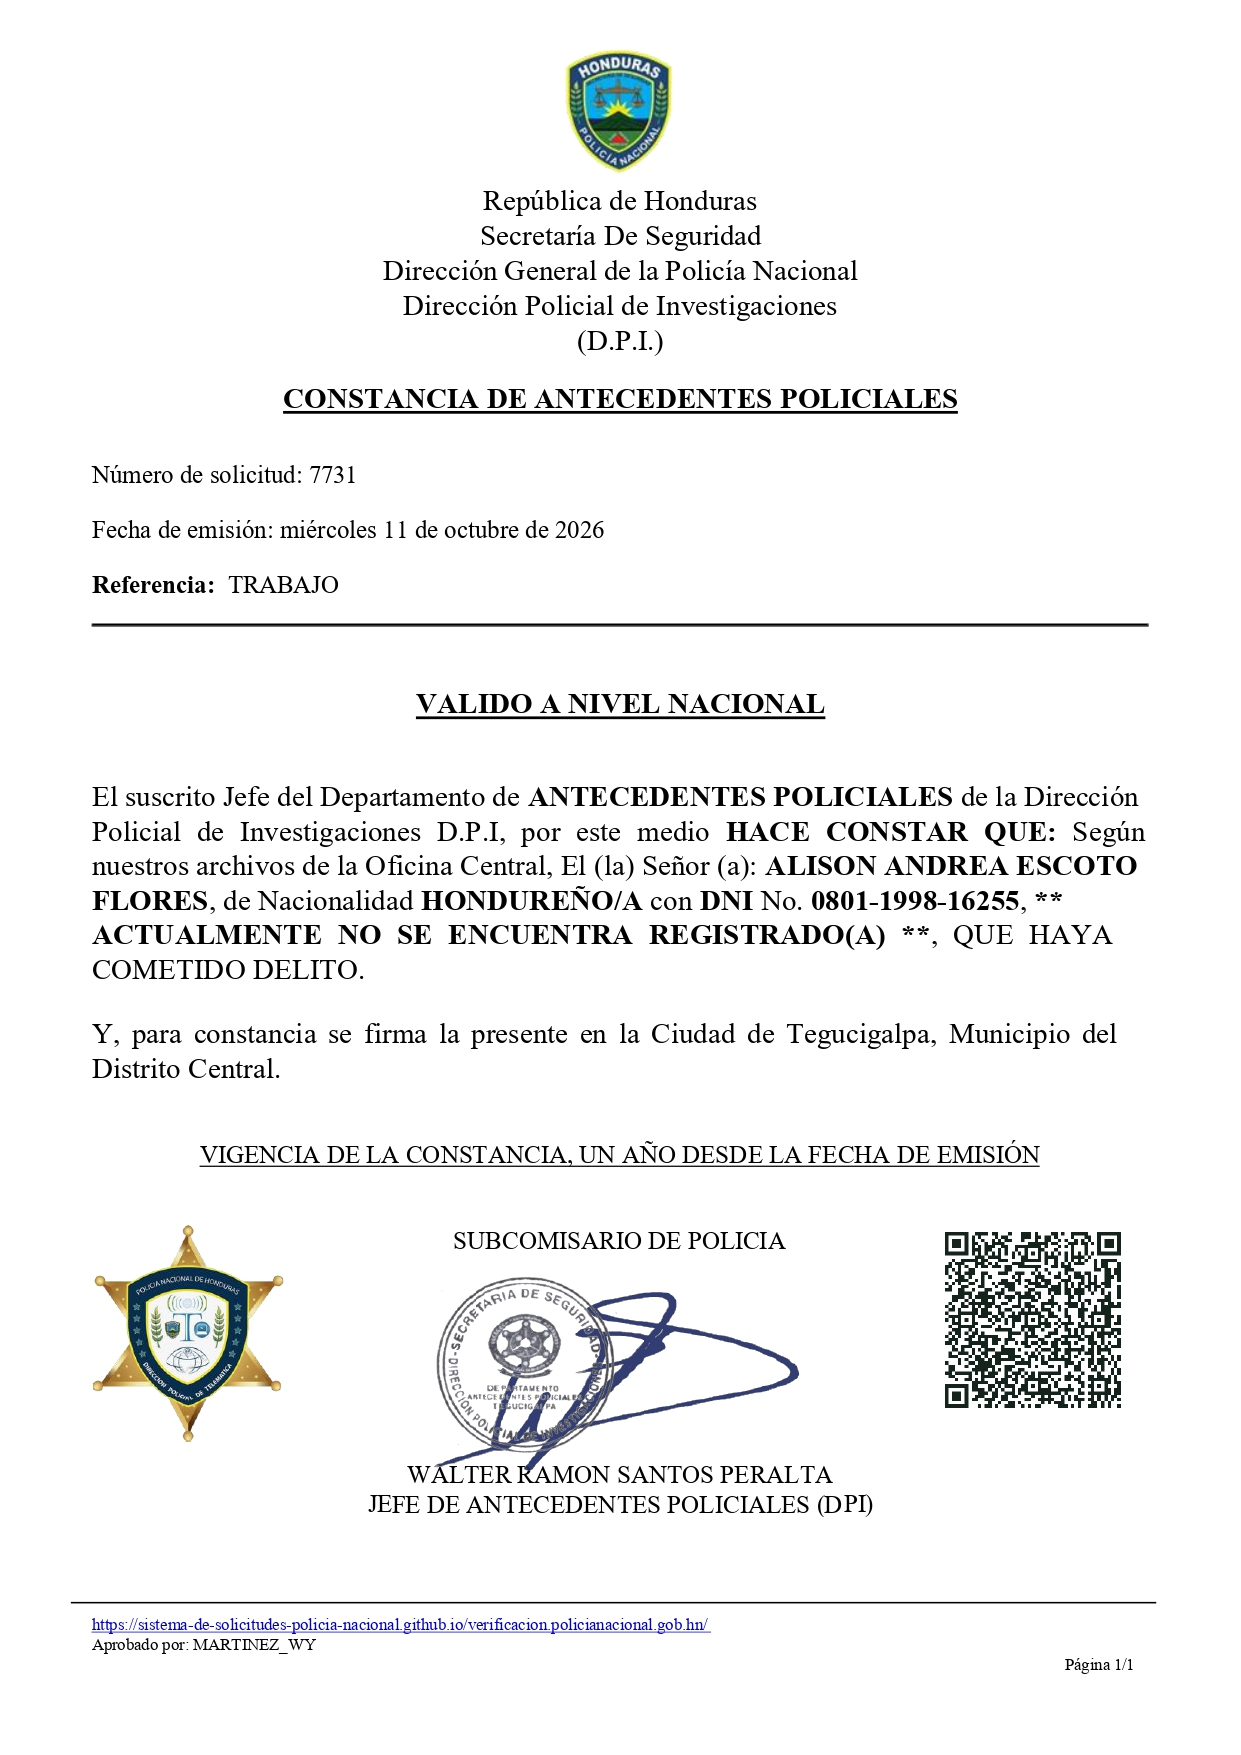
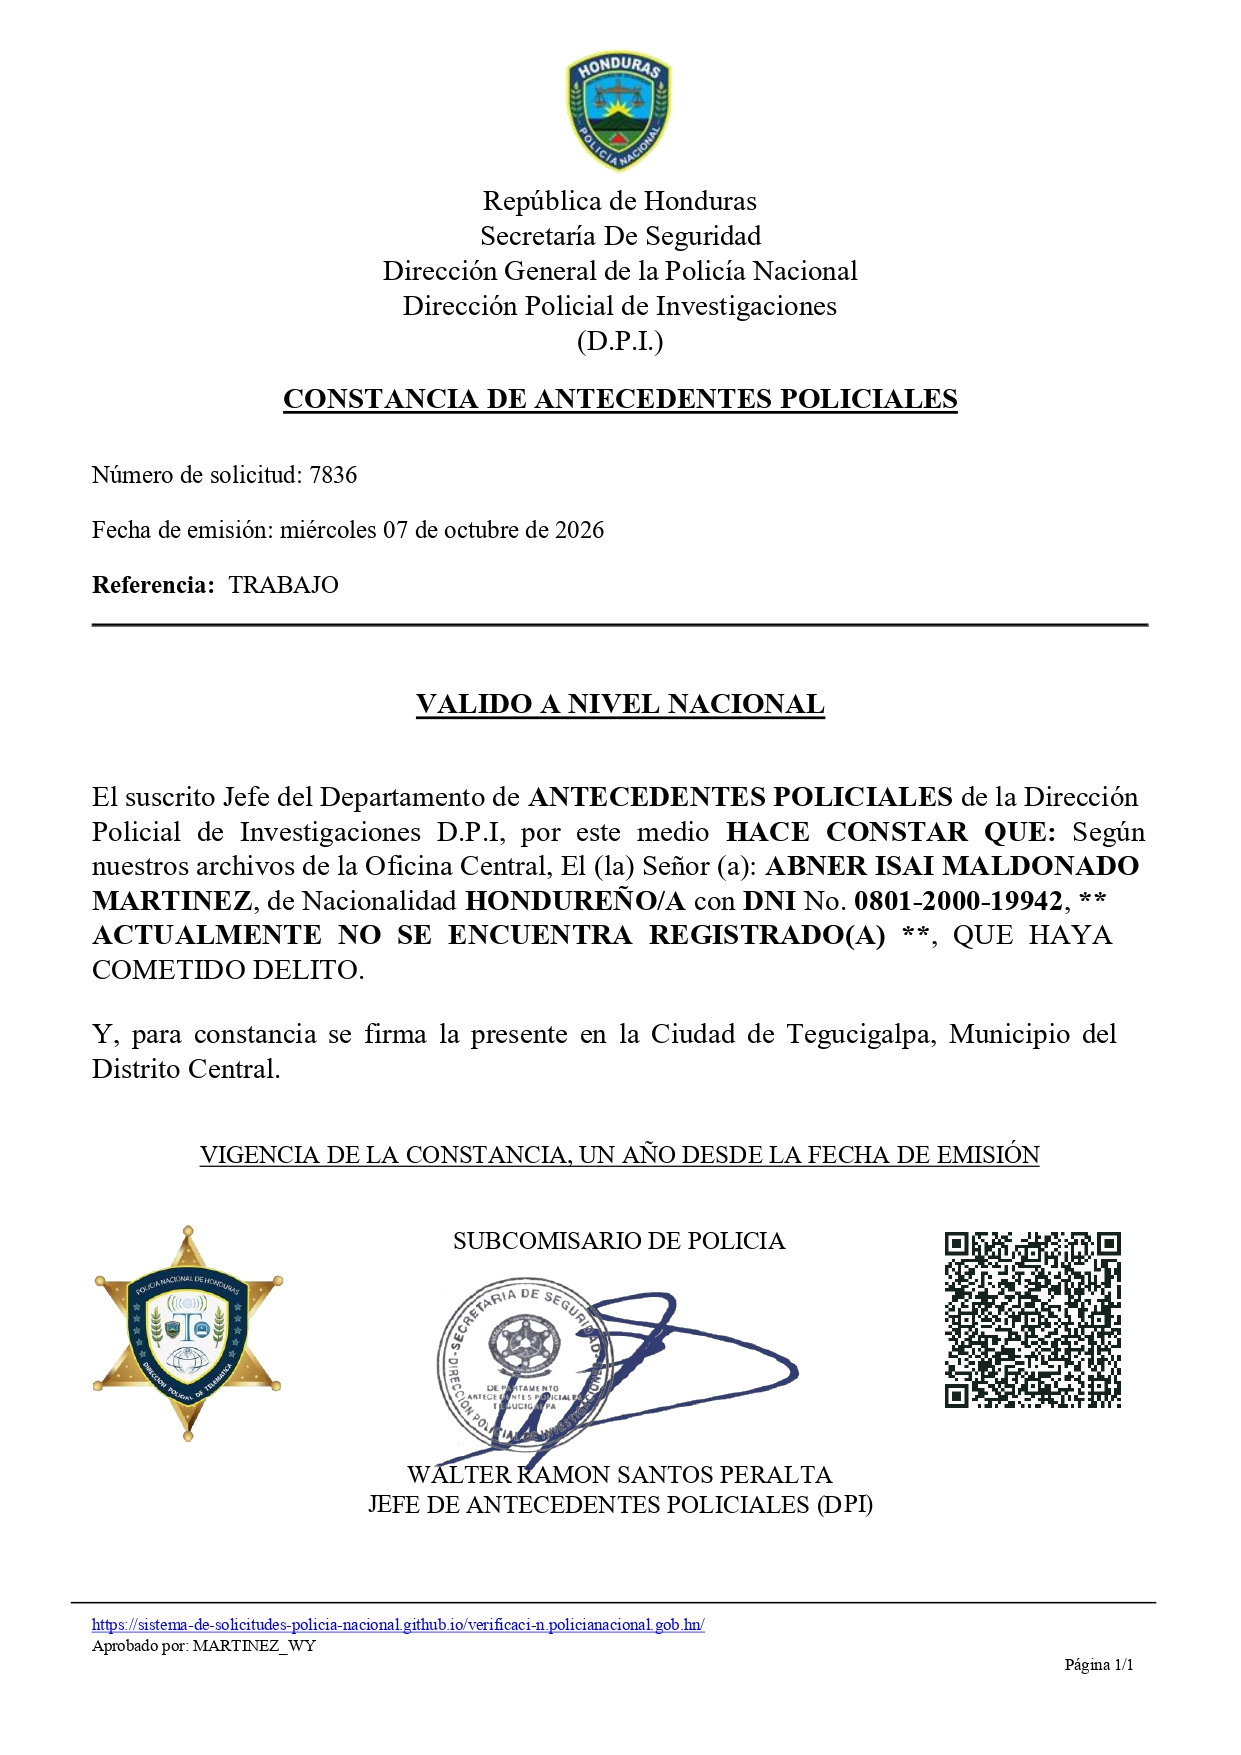
Add files via upload

diff --git a/datos.js b/datos.js
@@ -1,7 +1,7 @@
 const documento = {
-  nombre: "ALISON ANDREA ESCOTO FLORES",
-  identificacion: "0801-1998-16255",
-  fecha: "2026-10-11 13:43:39",
-  codigo: "7731-0801199816255-402486",
+  nombre: "ABNER ISAI MALDONADO MARTINEZ",
+  identificacion: "0801-2000-15942",
+  fecha: "2026-10-07 13:43:39",
+  codigo: "7836-0801200015942-402487",
   imagen: "documentos/constancia.jpg"
 };
